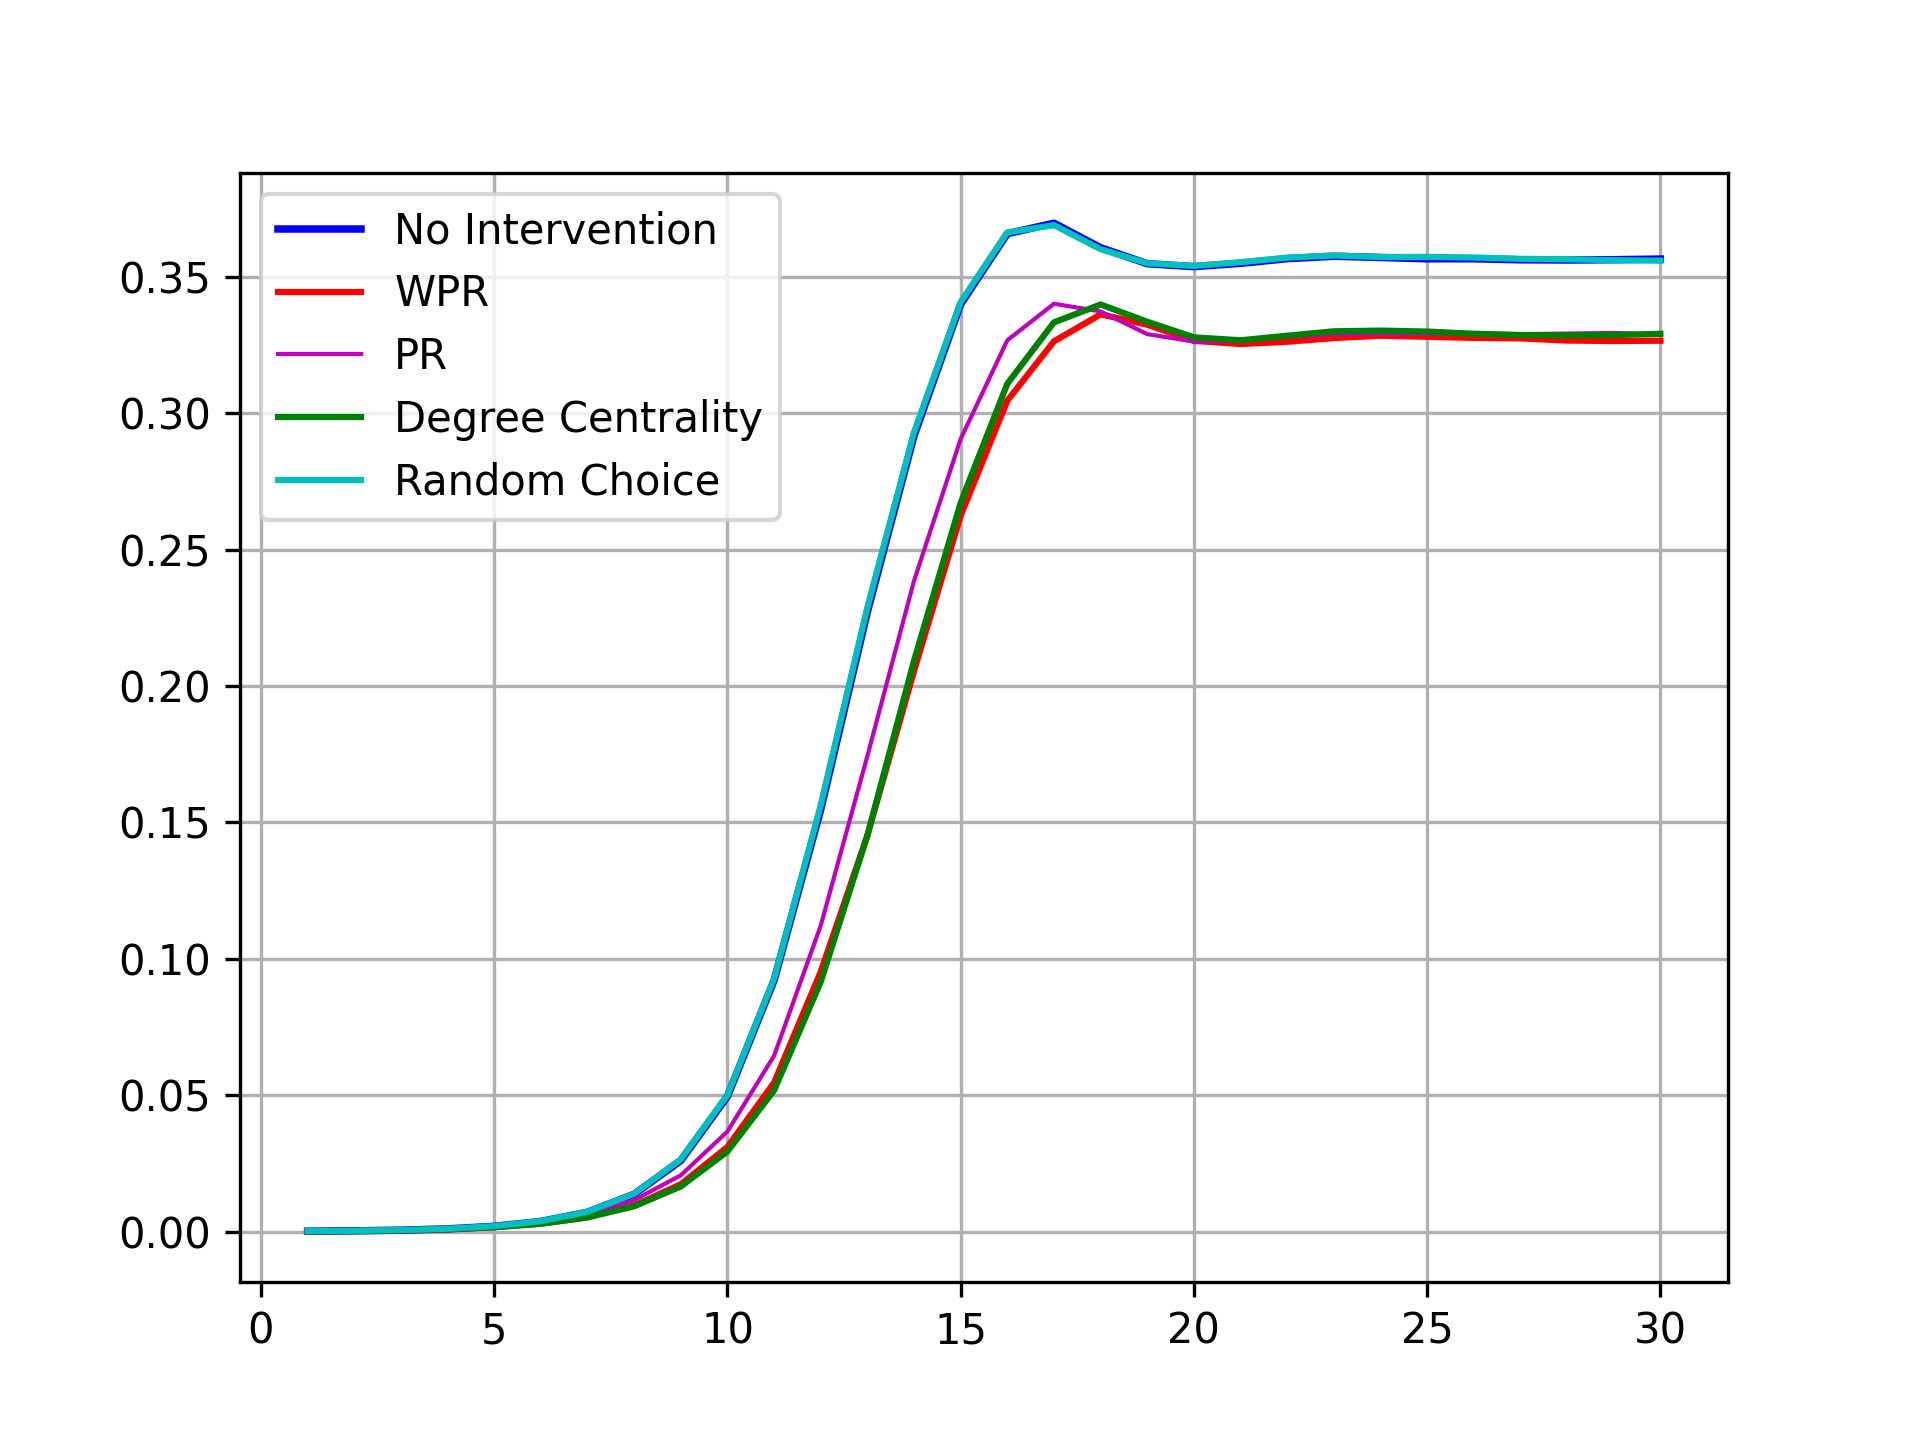
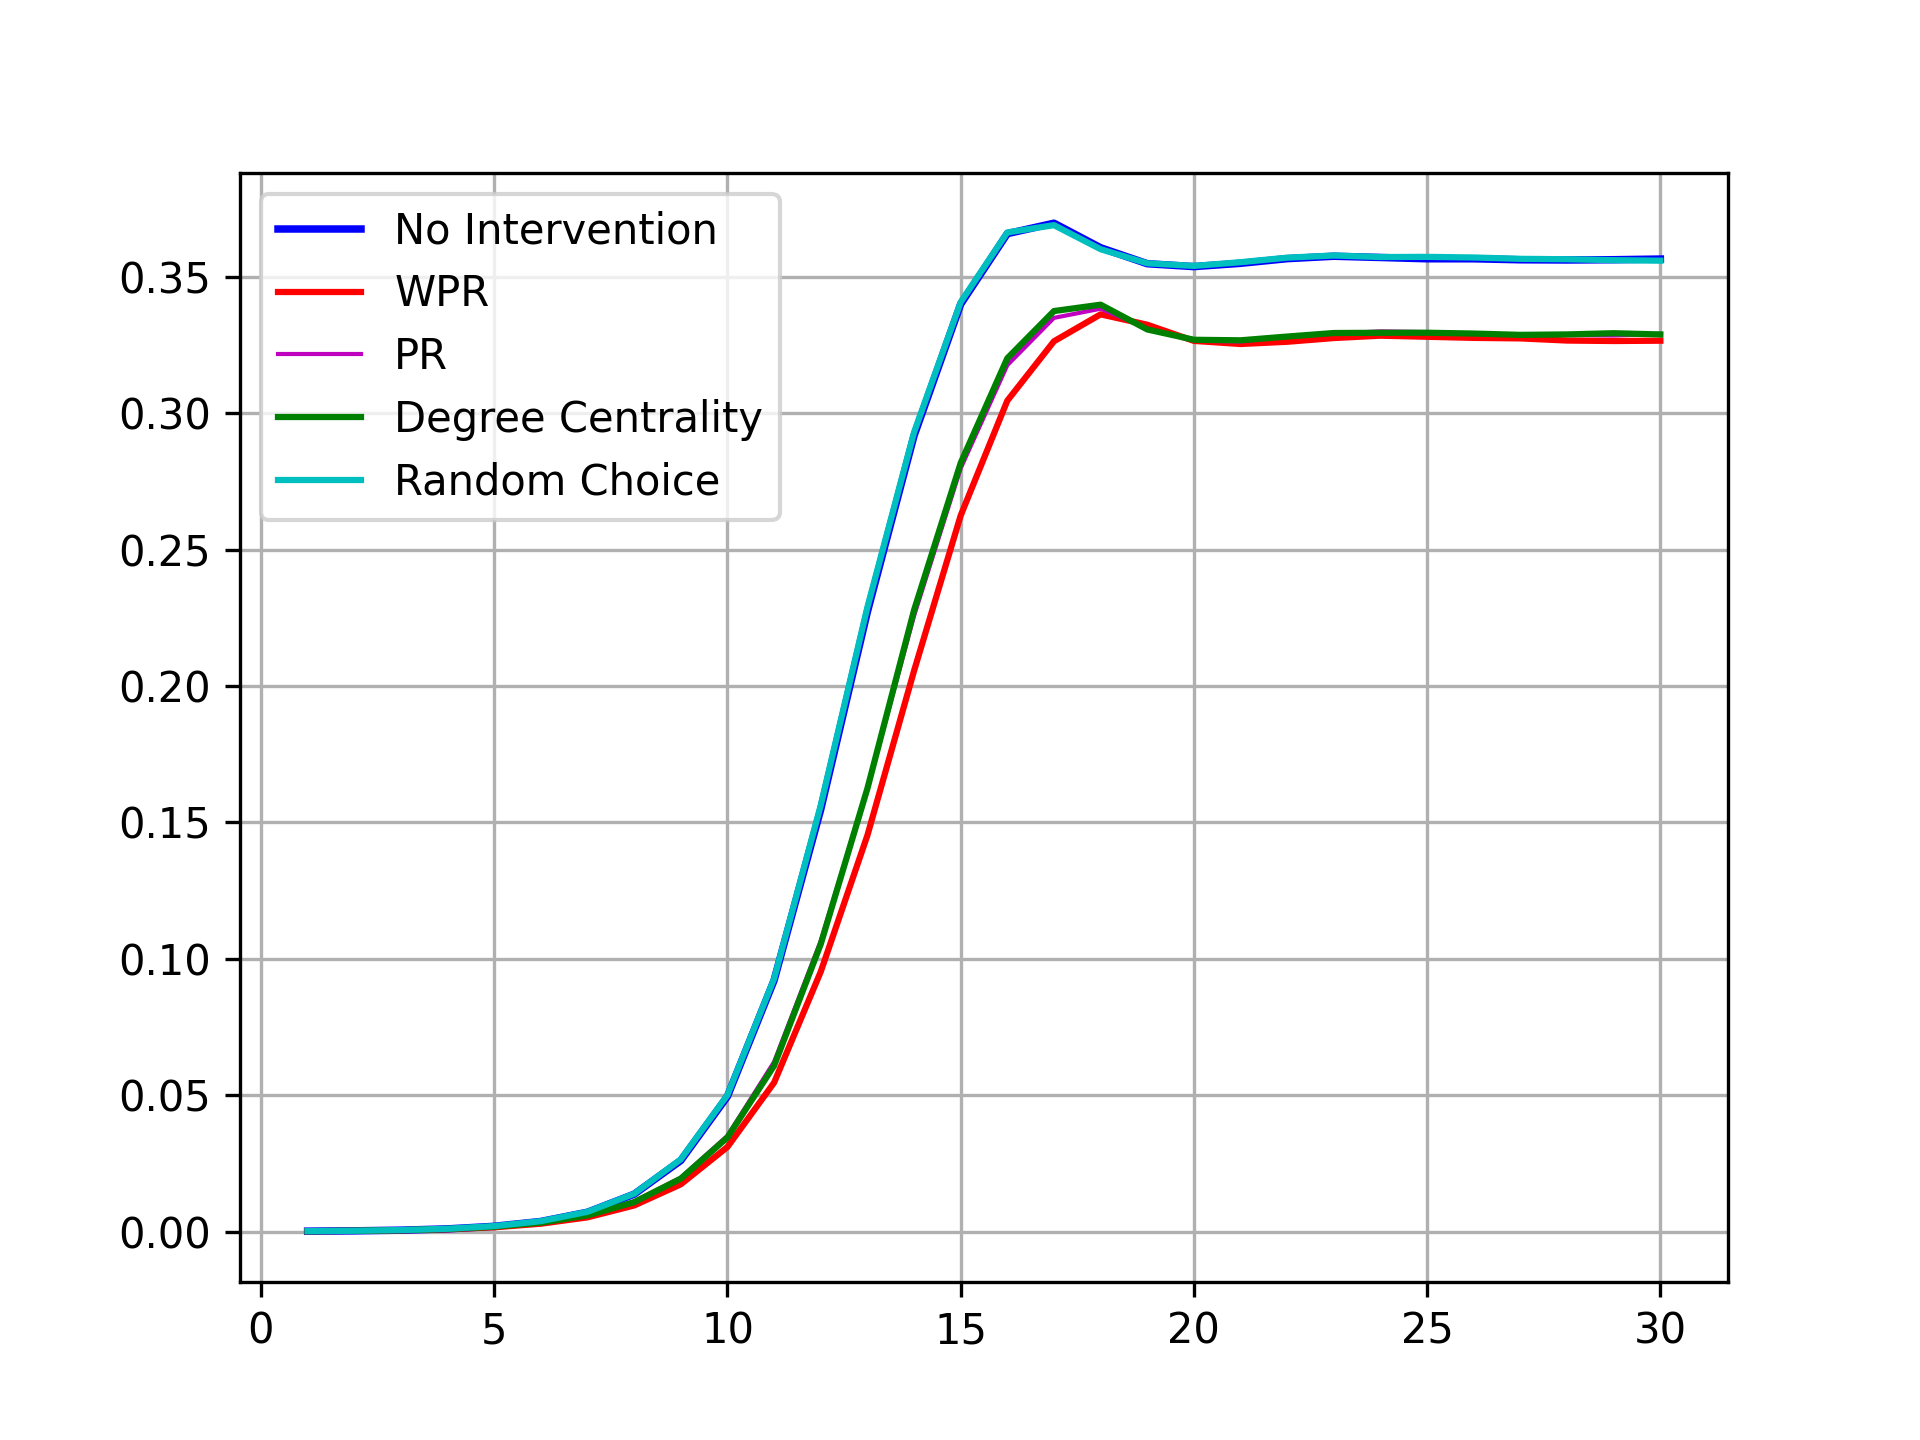
feat: draw new plots

Changed region(s): [[0.3125, 0.1875, 0.625, 0.8438], [0.8125, 0.2188, 0.8438, 0.25], [0.6875, 0.2188, 0.7188, 0.25]]

diff --git a/Simulation/plot_arlanda_alpha_1_r.py b/Simulation/plot_arlanda_alpha_1_r.py
@@ -14,21 +14,21 @@ wpr_ratios = [0.00011908749209184623, 0.00024338506196271072, 0.0004592311413791
               0.33244092143947007, 0.32651110863012167, 0.3253812660489003, 0.3261932938856016, 0.3275635443414834,
               0.32842469576867256, 0.3280279855606416, 0.3276178780097503, 0.32743105950653123, 0.3266391276841204,
               0.32647166089836627, 0.3265862826095047]
-pr_ratios = [0.0001376949127311972, 0.00027017974768337615, 0.0005210077779018272, 0.0010211752446875814,
-             0.0019202858099810205, 0.0034513043801868183, 0.006326523017379331, 0.01153585649957203,
-             0.020603624725540545, 0.03668564623571881, 0.06445015072010718, 0.11214469130289159, 0.17431952662721895,
-             0.23856052993933982, 0.29056603773584905, 0.3267425849428752, 0.340125786163522, 0.33732053142793345,
-             0.329007480183097, 0.3262565591157754, 0.32641137285549476, 0.32797514048602583, 0.3289695210449927,
-             0.32922853634029253, 0.3290588366640616, 0.3292821257117338, 0.3289784526068996, 0.32919355438949055,
-             0.329419820624465, 0.32894942503070224]
-degree_centrality_ratios = [0.00011983178891742027, 0.00022403334449778571, 0.00044285661121655316,
-                            0.0008775259573517919, 0.0016158684083212385, 0.0028752186371925124, 0.0051929589520300695,
-                            0.009264262587920062, 0.016528599605522682, 0.02934836812920993, 0.051771798593279,
-                            0.09158125860593204, 0.1452011462171114, 0.20925533102601318, 0.2671556696810688,
-                            0.3108131442819396, 0.33331547020951957, 0.3398541178221875, 0.3335320605857616,
-                            0.32782255963678314, 0.32673290908414276, 0.3284150199099401, 0.33003237691191245,
-                            0.3302787391611775, 0.32993859551189014, 0.32912582337836327, 0.32865766067507723,
-                            0.32852443154329947, 0.32863979755126344, 0.32910721595772396]
+pr_ratios = [0.00013248483495217892, 0.00026720256038108, 0.0004979345763090321, 0.0009586543113393621,
+             0.0018503219083770607, 0.003344869934129731, 0.006028059990324141, 0.010998474191507573,
+             0.01974917196978155, 0.03508838524803692, 0.0621874883703621, 0.1065252502698076, 0.16246436678947565,
+             0.2256968479029437, 0.2798072271221763, 0.31761899445498865, 0.3349544118194336, 0.3383171448773771,
+             0.33101112723754234, 0.32662945182538794, 0.32628335380149603, 0.3281939637527446, 0.32916675970376985,
+             0.3300085594134941, 0.3297443340404153, 0.3290283204942131, 0.32856834505600835, 0.32871199434334414,
+             0.3284864724051952, 0.32910349447359605]
+degree_centrality_ratios = [0.00012876335082430873, 0.00025752670164861746, 0.0004919802017044398,
+                            0.0009288824383164006, 0.0017744036321685089, 0.003251088534107402, 0.005897808045848684,
+                            0.010760299207323881, 0.01939339808715716, 0.03449071489710096, 0.06080011908749209,
+                            0.10537531167429572, 0.16239589148152284, 0.22777194745264412, 0.2817379330877154,
+                            0.32015034795876596, 0.3374545048565368, 0.3397908525920137, 0.3307067098358826,
+                            0.326926426258792, 0.3267291876000149, 0.32810464813367574, 0.329404190391128,
+                            0.329489784526069, 0.32950318186892935, 0.329203230248223, 0.32872241449890216,
+                            0.32888839269100517, 0.32932678352126826, 0.32887648394179597]
 random_ratios = [0.00013546202225447508, 0.00028134420006698674, 0.0005396151985411782, 0.001013732276431841,
                  0.00199024971158498, 0.0038115440437646534, 0.0072300993636262145, 0.013852108220758438,
                  0.026473149492017418, 0.05004205277064493, 0.09266421048714227, 0.1562613970451416,

diff --git a/Simulation/plot_big_alpha_3.py b/Simulation/plot_big_alpha_3.py
@@ -1,0 +1,40 @@
+import matplotlib.pyplot as plt
+
+ratios = [0.008638308957612296, 0.051224740426482084, 0.2887618622306576, 0.6324178482378773, 0.8136325406572141,
+          0.9058792006252093, 0.9525093967474229, 0.9757962115291579, 0.9873797030255665, 0.9932224331063229,
+          0.996059692605411, 0.9975311674295709, 0.9982590897249823, 0.998647612667932, 0.9988500614044881]
+
+wpr_ratios = [0.0046511108630121695, 0.022662349745078338, 0.11806854973763536, 0.433847642439805, 0.6720352796695322,
+              0.7968486472405195, 0.8607949090097131, 0.8931413047523352, 0.9092903129768152, 0.9173971940009675,
+              0.9214990138067061, 0.923473633284954, 0.9244799225931302, 0.9249964645900786, 0.9252651557441107]
+
+pr_ratios = [0.003248111346805106, 0.013616166127051467, 0.06721149194298687, 0.333485914182576, 0.6241725280041681,
+             0.7769014923151353, 0.8536935729969112, 0.8923240668378549, 0.9114331435376428, 0.921141007033605,
+             0.9259789363998363, 0.9283993896766031, 0.9296088720181609, 0.9302504558818057, 0.9305504075025121]
+#
+degree_centrality_ratios = [0.003216850880130996, 0.013294629898403484, 0.06655725503330728, 0.32317740314837556,
+                            0.6178817312344163, 0.7730839938967661, 0.8516363365710246, 0.8914711026757471,
+                            0.9110520635629489, 0.9210412712589781, 0.9259685162442782, 0.9283993896766031,
+                            0.9296721372483346, 0.9302973465818168, 0.9306203714041159]
+random_ratios = [0.008656172081426073, 0.05100442856611217, 0.28710580179375533, 0.630973168099438, 0.8132842097428454,
+                 0.9060831379554166, 0.9524215697220051, 0.9757947229355067, 0.9874645528636821, 0.9932804882587176,
+                 0.9960797886197016, 0.9975244687581407, 0.9982248520710059, 0.9985754158758513, 0.9987629786758959]
+
+x = range(1, len(ratios) + 1)
+
+_, ax = plt.subplots()
+
+ax.plot(x, ratios, label='No Intervention', color='b')
+
+ax.plot(x, wpr_ratios, label='WPR', color='r')
+
+ax.plot(x, pr_ratios, label='PR', color='m', linewidth=1.2)
+ax.plot(x, degree_centrality_ratios, label='Degree Centrality', color='g')
+
+ax.plot(x, random_ratios, label='Random Choice', color='c', linewidth=1)
+
+ax.legend()
+
+plt.grid(True)
+plt.savefig('./plot_big_alpha_3.png', dpi=300)
+plt.show()

diff --git a/Simulation/main.py b/Simulation/main.py
@@ -6,7 +6,7 @@ import airport
 import degree_calculate
 
 PASSENGERS_NUM_CO = 10
-SIMULATE_TIMESTEP = 25
+SIMULATE_TIMESTEP = 30
 
 g = graph.Graph()
 airports = airport.Airport()
@@ -55,6 +55,7 @@ for airport_id, _ in airports.airports.items():
         airports.init_passenger(airport_id, passenger_index)
 
 initial_locations = [340, 1382, 580, 1701, 3682, 3364, 3830, 346, 4029, 2188]
+# initial_locations = [737]
 for location in initial_locations:
     for passenger_id in airports.airports[location]:
         if passenger_id % 50 == airports.airports[location][0] % 50:

diff --git a/Simulation/plot_big_alpha_1_r.py b/Simulation/plot_big_alpha_1_r.py
@@ -73,5 +73,5 @@ ax.plot(x, degree_centrality_ratios, label='Degree Centrality', color='g')
 ax.legend()
 
 plt.grid(True)
-plt.savefig('./plot_big_alpha_1.png', dpi=300)
+plt.savefig('./plot_big_alpha_1_r.png', dpi=300)
 plt.show()

diff --git a/Simulation/plot_big_alpha_2_r.py b/Simulation/plot_big_alpha_2_r.py
@@ -54,5 +54,5 @@ ax.plot(x, random_ratios, label='Random Choice', color='c', linewidth=1.8)
 ax.legend()
 
 plt.grid(True)
-plt.savefig('./plot_big_alpha_2.png', dpi=300)
+plt.savefig('./plot_big_alpha_2_r.png', dpi=300)
 plt.show()

diff --git a/Simulation/passenger.py b/Simulation/passenger.py
@@ -2,7 +2,7 @@ import random
 import airport
 
 # Assuming the possibility to be infected on the plane is directly proportional to the number of virus carriers
-ALPHA = 0.5
+ALPHA = 0.1
 BETA = 10
 
 SHUTDOWN_THRESHOLD = 0.05
